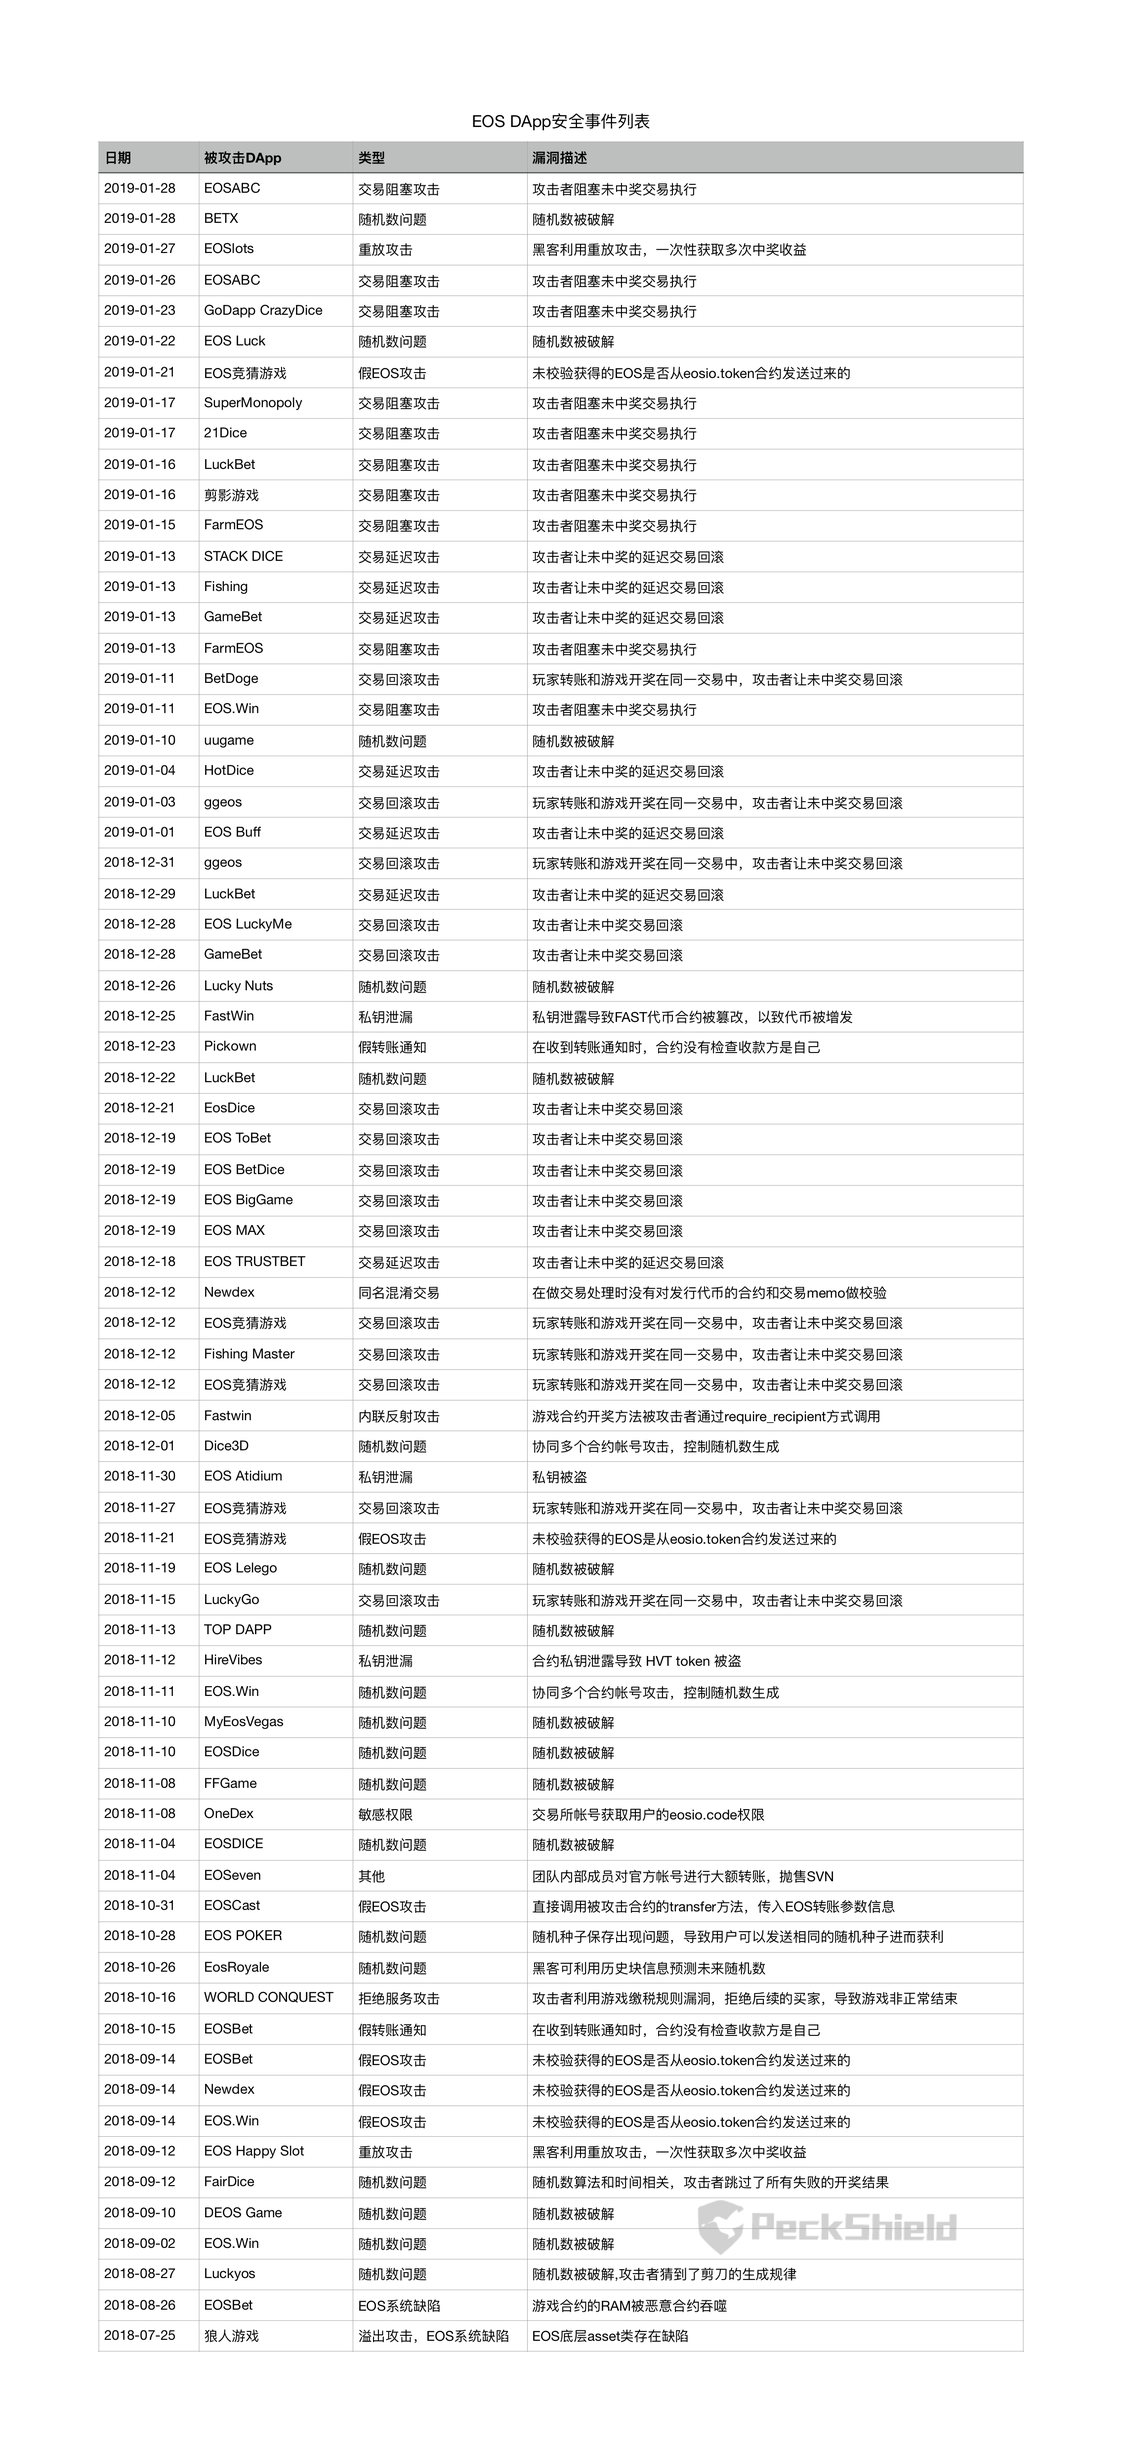
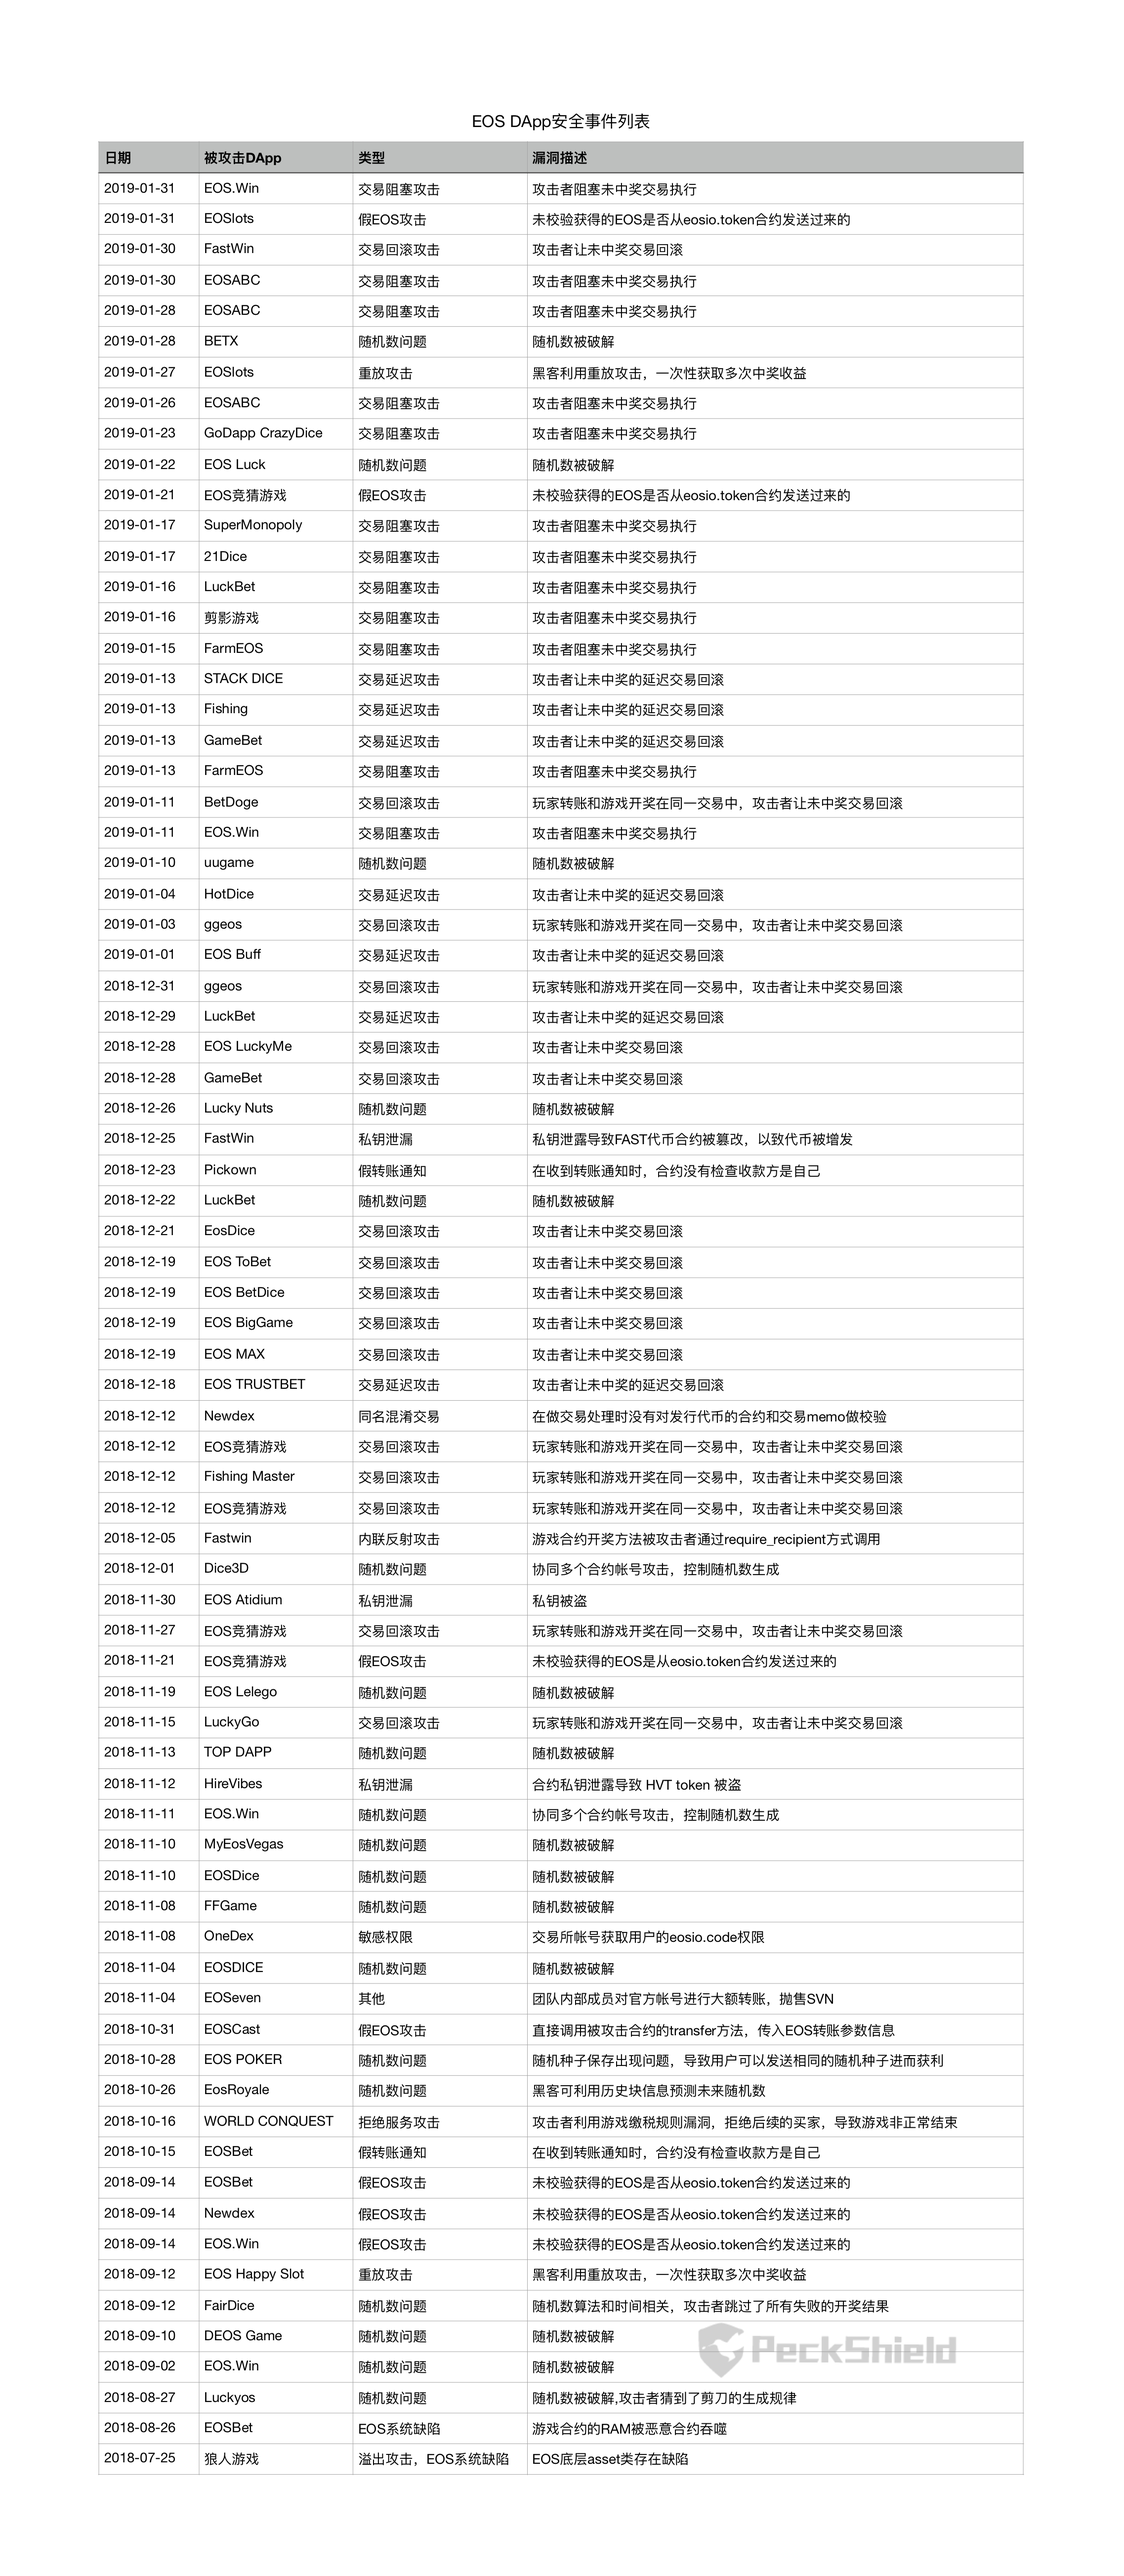
upate 2019-01-31

diff --git a/known_dapp_attacks/README.md b/known_dapp_attacks/README.md
@@ -3,11 +3,11 @@
 本文档根据发生的EOS DApp安全事件不定期更新，旨在记录EOS主网上线以来发生的各类DApp安全事件，供大家参考，同时欢迎大家对该文档提出建议及指正，以完善文档，一起促进EOS的生态健康发展。
 
 ## 概要
-截至2019年01月28日，共发生71起DApp安全事件，共损超过78万个EOS
+截至2019年01月31日，共发生75起DApp安全事件，共损超过78万个EOS
 ![EOS DApp安全事件列表](dapp_attacks_summary.png)
 
 ## EOS DApp安全事件列表
-截至2019年01月28日的安全事件列表：
+截至2019年01月31日的安全事件列表：
 ![EOS DApp安全事件列表](eos_dapp_attacks.png)
 
 ## EOS DApp安全事件历史版本
